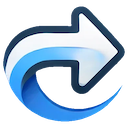
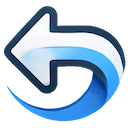
chore: 更新icon

diff --git a/popup.css b/popup.css
@@ -103,3 +103,6 @@ body {
     color: #fff;
   }
   
+  #clear-all {
+    cursor: pointer;
+  }
